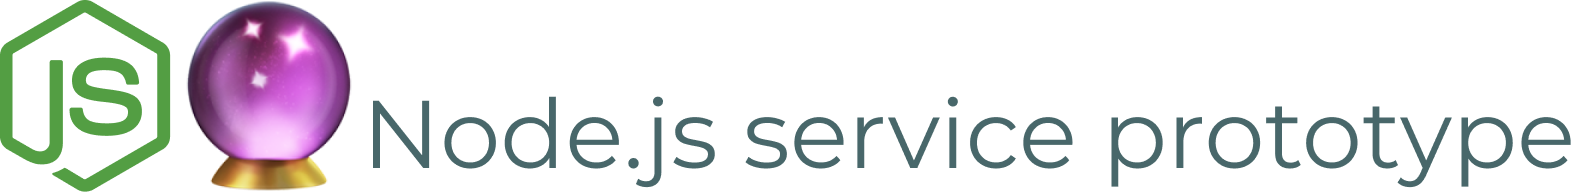
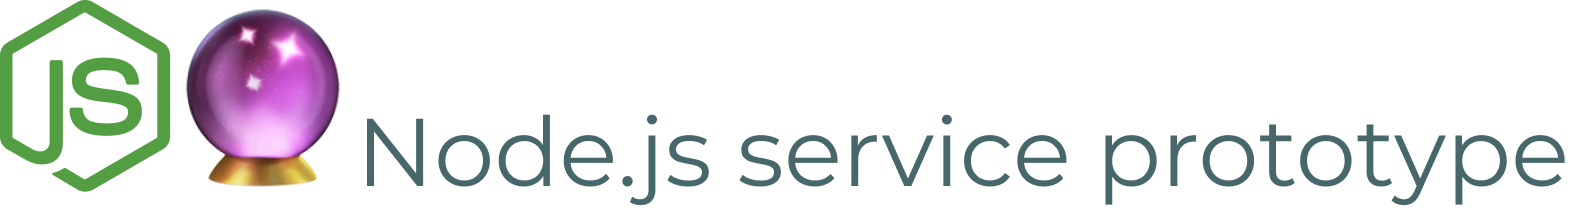
Docs: Repo header upgrade and Slack notification update 📝

Changed region(s): [[0.0, 0.0, 1.0, 1.0], [0.4042, 0.5, 0.4353, 0.5938]]

diff --git a/jest.config.js b/jest.config.js
@@ -11,9 +11,6 @@ module.exports = {
   // a truthy env value in your shell environment
   notify: Boolean(process.env.ENABLE_JEST_NOTIFICATIONS),
 
-  // Ignore Cypress acceptance tests
-  testPathIgnorePatterns: ['/node_modules/'],
-
   // Collect test coverage of source files (excluding stories), report
   // text-summary for devs and lcov for reporting to Code Climate in CI/CD envs.
   collectCoverage: true,
